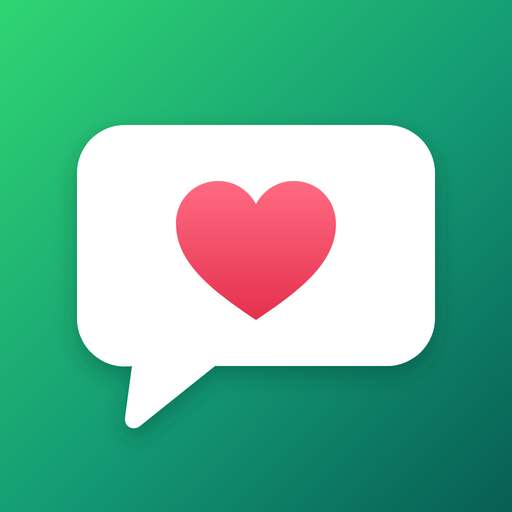
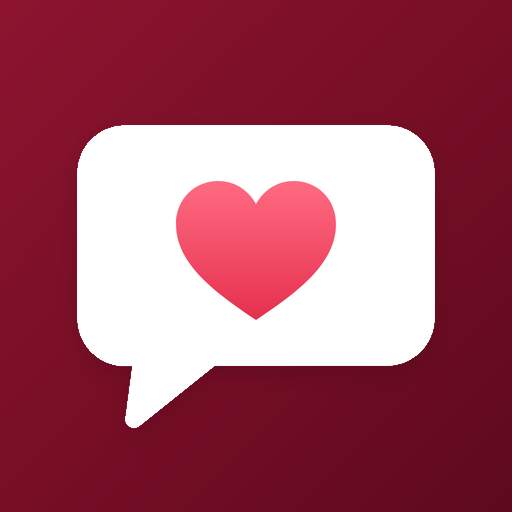
Aktualisierung der Web-App

diff --git a/css/app.css b/css/app.css
@@ -220,6 +220,17 @@ a { color: var(--link); }
 .result .rh b i { width: 8px; height: 8px; border-radius: 50%; display: inline-block; }
 .result .rt { font-size: 15px; line-height: 1.35; display: -webkit-box; -webkit-line-clamp: 3; -webkit-box-orient: vertical; overflow: hidden; white-space: pre-wrap; }
 .result mark { background: var(--mark); color: inherit; border-radius: 3px; padding: 0 1px; }
+/* Suche als Kacheln */
+.sgrid { display: grid; grid-template-columns: repeat(auto-fill, minmax(104px, 1fr)); gap: 2px; padding: 0 2px 16px; }
+.sgrid .tile { aspect-ratio: 1; position: relative; overflow: hidden; background: var(--bg-3); text-align: left; min-width: 0; }
+.sgrid .tile img { width: 100%; height: 100%; object-fit: cover; display: block; }
+.sgrid .tile .vb { position: absolute; right: 5px; bottom: 5px; color: #fff; width: 18px; height: 18px; filter: drop-shadow(0 1px 2px rgba(0,0,0,.6)); }
+.sgrid .tile.txt { padding: 8px 8px 20px; font-size: 11.5px; line-height: 1.3; color: var(--text); border-left: 3px solid var(--text-3); }
+.sgrid .tile.txt.s0 { border-left-color: var(--her); } .sgrid .tile.txt.s1 { border-left-color: var(--him); }
+.sgrid .tile.txt .tt { display: -webkit-box; -webkit-line-clamp: 6; -webkit-box-orient: vertical; overflow: hidden; word-break: break-word; }
+.sgrid .tile .td { position: absolute; left: 6px; bottom: 4px; font-size: 10px; color: var(--text-3); }
+.sgrid .tile.img .td { color: #fff; text-shadow: 0 1px 2px rgba(0,0,0,.7); }
+.sgrid .tile.ico { display: grid; place-items: center; font-size: 30px; }
 .result-count { padding: 8px 16px; font-size: 13px; color: var(--text-3); display: flex; justify-content: space-between; align-items: center; }
 .result-count button { color: var(--accent); font-size: 13px; }
 .year-hist { display: flex; align-items: flex-end; gap: 2px; height: 46px; padding: 0 16px; margin-top: 4px; }
@@ -344,11 +355,11 @@ a { color: var(--link); }
 .toast.show { opacity: 1; transform: translate(-50%, 0); }
 
 /* ---------- Start / Import / Sperre ---------- */
-.gate { position: fixed; inset: 0; z-index: 80; background: linear-gradient(160deg, #075e54 0%, #128c7e 55%, #25d366 130%); color: #fff; display: flex; flex-direction: column; align-items: center; justify-content: center; padding: calc(var(--safe-top) + 24px) 28px calc(var(--safe-bottom) + 24px); text-align: center; overflow-y: auto; }
+.gate { position: fixed; inset: 0; z-index: 80; background: linear-gradient(160deg, #5e0a1d 0%, #8c142f 55%, #b5294f 130%); color: #fff; display: flex; flex-direction: column; align-items: center; justify-content: center; padding: calc(var(--safe-top) + 24px) 28px calc(var(--safe-bottom) + 24px); text-align: center; overflow-y: auto; }
 .gate .logo { width: 96px; height: 96px; border-radius: 22px; box-shadow: 0 10px 30px rgba(0, 0, 0, 0.25); margin-bottom: 18px; }
 .gate h1 { margin: 0 0 8px; font-size: 28px; }
 .gate p { margin: 0 0 18px; opacity: .92; line-height: 1.45; max-width: 360px; }
-.gate .btn { background: #fff; color: #075e54; padding: 13px 22px; border-radius: 14px; font-size: 16px; }
+.gate .btn { background: #fff; color: #5e0a1d; padding: 13px 22px; border-radius: 14px; font-size: 16px; }
 .gate .btn.sec { background: rgba(255, 255, 255, 0.18); color: #fff; }
 .gate input[type="password"], .gate input[type="text"] { width: 100%; max-width: 320px; height: 48px; border-radius: 12px; border: 0; padding: 0 14px; font-size: 18px; text-align: center; margin-bottom: 12px; background: rgba(255, 255, 255, 0.95); color: #111; }
 .gate .hint { font-size: 14px; opacity: .85; margin-bottom: 14px; }
@@ -367,7 +378,7 @@ a { color: var(--link); }
 .keypad button.txt { background: none; font-size: 16px; }
 
 /* ---------- Intro ---------- */
-.intro { position: fixed; inset: 0; z-index: 70; color: #fff; background: radial-gradient(120% 90% at 50% 0%, #1a8f7a 0%, #075e54 45%, #052e2b 100%); display: flex; flex-direction: column; overflow: hidden; }
+.intro { position: fixed; inset: 0; z-index: 70; color: #fff; background: radial-gradient(120% 90% at 50% 0%, #a3203f 0%, #6e0f25 45%, #2a0410 100%); display: flex; flex-direction: column; overflow: hidden; }
 .intro .hearts { position: absolute; inset: 0; pointer-events: none; overflow: hidden; }
 .intro .hearts span { position: absolute; bottom: -40px; font-size: 20px; opacity: 0; animation: rise linear infinite; }
 @keyframes rise { 0% { transform: translateY(0) rotate(0); opacity: 0; } 10% { opacity: .7; } 100% { transform: translateY(-110vh) rotate(25deg); opacity: 0; } }
@@ -383,7 +394,7 @@ a { color: var(--link); }
 .intro .ded { max-width: 520px; font-size: 18px; line-height: 1.55; text-align: left; white-space: pre-wrap; max-height: 62vh; overflow-y: auto; -webkit-overflow-scrolling: touch; }
 .intro .sig { margin-top: 14px; font-style: italic; font-size: 19px; align-self: flex-end; max-width: 520px; width: 100%; text-align: right; }
 .intro .next { position: absolute; left: 0; right: 0; bottom: calc(var(--safe-bottom) + 24px); display: flex; justify-content: center; gap: 10px; z-index: 2; }
-.intro .next .btn { background: #fff; color: #075e54; padding: 13px 22px; border-radius: 26px; }
+.intro .next .btn { background: #fff; color: #6e0f25; padding: 13px 22px; border-radius: 26px; }
 .intro .next .btn.sec { background: rgba(255, 255, 255, 0.15); color: #fff; }
 .intro .dots { position: absolute; top: calc(var(--safe-top) + 14px); left: 0; right: 0; display: flex; justify-content: center; gap: 6px; z-index: 2; }
 .intro .dots i { width: 22px; height: 3px; border-radius: 2px; background: rgba(255, 255, 255, 0.3); }

diff --git a/js/media.js b/js/media.js
@@ -49,6 +49,43 @@
       const mid = m[UC.data.MI];
       return mid >= 0 ? UC.data.media[mid] : null;
     },
+    // Einzelne Datei (Foto, Video, Sprachnachricht …) als File für „Sichern/Teilen“
+    async fileFor(i) {
+      const D = UC.data, m = D.M[i], info = this.info(i);
+      if (!info || !info.f) return null;
+      let blob = null;
+      try {
+        if (this.mode === "bundle") blob = await (await fetch("data/" + info.f)).blob();
+        else blob = await UC.idb.get("files", info.f);
+      } catch (e) { blob = null; }
+      if (!blob) return null;
+      const ext = (info.f.split(".").pop() || "bin").toLowerCase();
+      const TYPES = { jpg: "image/jpeg", jpeg: "image/jpeg", png: "image/png", webp: "image/webp", gif: "image/gif",
+        mp4: "video/mp4", mov: "video/quicktime", m4a: "audio/mp4", mp3: "audio/mpeg", opus: "audio/ogg", pdf: "application/pdf" };
+      const d = UC.D(m[D.T]), z = (n) => String(n).padStart(2, "0");
+      const name = "Unser Chat " + d.getUTCFullYear() + "-" + z(d.getUTCMonth() + 1) + "-" + z(d.getUTCDate()) + " " +
+        z(d.getUTCHours()) + "." + z(d.getUTCMinutes()) + "." + ext;
+      return new File([blob], name, { type: blob.type || TYPES[ext] || "application/octet-stream" });
+    },
+    // Teilen-Menü von iOS öffnen („Bild sichern“, „In Dateien sichern“, AirDrop …); file vorher laden,
+    // damit der Aufruf direkt im Antippen passiert (sonst lehnt iOS ab)
+    shareFile(file) {
+      if (!file) { UC.toast("Diese Datei ist nicht in der Chat-Datei enthalten."); return; }
+      if (navigator.canShare && navigator.canShare({ files: [file] })) {
+        navigator.share({ files: [file] }).catch((e) => {
+          if (e && e.name === "NotAllowedError") UC.toast("Bitte noch einmal tippen");
+        });
+        return;
+      }
+      const u = URL.createObjectURL(file);
+      const a = el("a", { href: u, download: file.name });
+      document.body.appendChild(a); a.click(); a.remove();
+      setTimeout(() => URL.revokeObjectURL(u), 60000);
+    },
+    canSave(i) {
+      const m = UC.data.M[i], info = this.info(i);
+      return !!(info && info.f) && [1, 2, 3, 4, 5, 6].indexOf(m[UC.data.K]) >= 0;
+    },
     // Liste aller Fotos/Videos (für Galerie und Wischen im Betrachter)
     visualList() {
       if (this._vis) return this._vis;
@@ -179,11 +216,13 @@
     const title = el("div", { class: "grow" });
     const cap = el("div", { class: "cap" });
     const closeBtn = el("button", { class: "icon-btn", "aria-label": "Schließen" }, icon("i-close"));
+    const shareBtn = el("button", { class: "icon-btn", "aria-label": "Sichern oder teilen" }, icon("i-share"));
+    let curFile = null;
     const prev = el("button", { class: "icon-btn", "aria-label": "Vorheriges" }, icon("i-left"));
     const next = el("button", { class: "icon-btn", "aria-label": "Nächstes" }, icon("i-right"));
     const toChat = el("button", { class: "btn", text: "Im Chat zeigen" });
     const v = el("div", { class: "viewer" },
-      el("div", { class: "vt" }, closeBtn, title),
+      el("div", { class: "vt" }, closeBtn, title, shareBtn),
       stage, cap,
       el("div", { class: "vb" }, prev, toChat, next));
     document.getElementById("overlays").appendChild(v);
@@ -195,6 +234,10 @@
       const info = media.info(i) || {};
       title.replaceChildren(el("b", { text: D.name(m[D.S]) }), el("small", { text: UC.fmtDate(m[D.T]) + ", " + UC.fmtTime(m[D.T]) }));
       cap.textContent = m[D.X] || "";
+      curFile = null;
+      shareBtn.style.visibility = info.f ? "visible" : "hidden";
+      const fi = i;
+      media.fileFor(fi).then((f) => { if (fi === i) curFile = f; });
       scale = 1; tx = 0; ty = 0;
       stage.replaceChildren();
       if ((m[D.K] === 2 || m[D.K] === 5) && info.f) {
@@ -230,6 +273,10 @@
     function onKey(e) { if (e.key === "Escape") close(); if (e.key === "ArrowLeft") go(-1); if (e.key === "ArrowRight") go(1); }
     document.addEventListener("keydown", onKey);
     closeBtn.onclick = close;
+    shareBtn.onclick = () => {
+      if (curFile) media.shareFile(curFile);
+      else media.fileFor(i).then((f) => { curFile = f; media.shareFile(f); });
+    };
     prev.onclick = () => go(-1);
     next.onclick = () => go(1);
     toChat.onclick = () => { close(); UC.app.openInChat(i, { flash: true }); };

diff --git a/js/search.js b/js/search.js
@@ -4,6 +4,7 @@
   const { el, icon } = UC;
   let D, input, clearBtn, filters, out;
   let state = { sender: -1, type: "all", year: 0, newest: true };
+  let view = "list";  // "list" oder "grid" (Kacheln) – wird gemerkt
   let results = [], shown = 0, re = null, seq = 0;
   const TYPES = [
     ["all", "Alles"], ["text", "Text"], ["foto", "Fotos"], ["audio", "Sprachnachrichten"], ["video", "Videos"],
@@ -32,6 +33,12 @@
       mk(D.name(1), state.sender === 1, () => { state.sender = 1; renderFilters(); run(); }),
       mk("Art: " + TYPES.find((t) => t[0] === state.type)[1] + " ▾", state.type !== "all", pickType),
       mk(state.newest ? "Neueste zuerst ↓" : "Älteste zuerst ↑", false, () => { state.newest = !state.newest; renderFilters(); show(true); }),
+      mk(view === "grid" ? "▦ Kacheln" : "☰ Liste", false, () => {
+        view = view === "grid" ? "list" : "grid";
+        UC.prefs.set("searchView", view);
+        renderFilters();
+        if (results.length) show(true);
+      }),
     );
   }
   function pickType() {
@@ -69,6 +76,32 @@
     return b;
   }
 
+  function tileItem(i) {
+    const m = D.M[i], k = m[D.K], s = m[D.S];
+    const info = UC.media.info(i);
+    const when = el("span", { class: "td", text: UC.fmtDate(m[D.T], "short") });
+    let b;
+    if ((k === 1 || k === 2 || k === 4 || k === 5) && info && (info.th || info.f)) {
+      b = el("button", { class: "tile img", "aria-label": (D.KIND_LABEL[k] || "Bild") + " vom " + UC.fmtDate(m[D.T], "short") });
+      const img = el("img", { alt: "", decoding: "async" });
+      UC.media.lazy(img, info.th || info.f, out);
+      b.appendChild(img);
+      if (k === 2 || k === 5) b.appendChild(icon("i-play", "vb"));
+      b.appendChild(when);
+      b.onclick = () => (k === 4 ? UC.app.openInChat(i, { flash: true }) : UC.media.view(i));
+    } else if (k !== 0 && k !== 11 && !m[D.X]) {
+      b = el("button", { class: "tile ico", "aria-label": (D.KIND_LABEL[k] || "Nachricht") + " vom " + UC.fmtDate(m[D.T], "short") },
+        el("span", { text: D.KIND_ICON[k] || "💬" }), when);
+      b.onclick = () => UC.app.openInChat(i, { flash: true, hl: re });
+    } else {
+      let txt = m[D.X] || "";
+      if (k !== 0 && k !== 11) txt = (D.KIND_ICON[k] || "") + " " + txt;
+      b = el("button", { class: "tile txt s" + s }, el("div", { class: "tt", html: snippet(txt) }), when);
+      b.onclick = () => UC.app.openInChat(i, { flash: true, hl: re });
+    }
+    return b;
+  }
+
   function histogram(all) {
     const counts = new Map();
     for (const i of all) { const y = UC.D(D.M[i][D.T]).getUTCFullYear(); counts.set(y, (counts.get(y) || 0) + 1); }
@@ -99,13 +132,14 @@
       el("span", { text: UC.plural(list.length, "Treffer", "Treffer") + (state.year ? " in " + state.year : "") }),
       state.year ? el("button", { text: "Alle Jahre", onclick: () => { state.year = 0; show(true); } }) : null);
     out.append(histogram(results), head);
-    const box = el("div");
+    const grid = view === "grid";
+    const box = el("div", { class: grid ? "sgrid" : "" });
     out.appendChild(box);
     shown = 0;
     const more = () => {
       const f = document.createDocumentFragment();
-      const end = Math.min(list.length, shown + 60);
-      for (; shown < end; shown++) f.appendChild(resultItem(list[shown]));
+      const end = Math.min(list.length, shown + (grid ? 150 : 60));
+      for (; shown < end; shown++) f.appendChild(grid ? tileItem(list[shown]) : resultItem(list[shown]));
       box.appendChild(f);
     };
     more();
@@ -180,6 +214,7 @@
     clearBtn = UC.$("#q-clear");
     filters = UC.$("#search-filters");
     out = UC.$("#search-results");
+    view = UC.prefs.get("searchView", "list") === "grid" ? "grid" : "list";
     renderFilters();
     emptyState();
     const deb = UC.debounce(run, 220);

diff --git a/js/chat.js b/js/chat.js
@@ -501,13 +501,20 @@
     const fav = el("button", { class: "opt", text: D.isFav(i) ? "💔  Aus Favoriten entfernen" : "❤  Als Favorit merken" });
     const cp = el("button", { class: "opt", text: "📋  Text kopieren" });
     const day = el("button", { class: "opt", text: "📅  Diesen Tag im Kalender" });
-    body.append(info, fav, m[D.X] ? cp : null, day);
+    const save = UC.media.canSave(i) ? el("button", { class: "opt", text: "📤  Sichern oder teilen" }) : null;
+    let file = null;
+    if (save) UC.media.fileFor(i).then((f) => { file = f; });  // vorab laden (iOS will das Teilen direkt beim Tippen)
+    body.append(...[info, fav, m[D.X] ? cp : null, save, day].filter(Boolean));  // append(null) würde „null“ anzeigen
     const bub = inner.querySelector('[data-i="' + i + '"]');
     if (bub) bub.classList.add("picked");
     const s = UC.sheet({ title: "Nachricht", body, onClose: () => { if (bub) bub.classList.remove("picked"); } });
     fav.onclick = () => { toggleFav(i); s.close(); };
     cp.onclick = () => { copyText(m[D.X] || ""); UC.toast("Kopiert"); s.close(); };
     day.onclick = () => { s.close(); UC.app.showDay(Math.floor(m[D.T] / 86400)); };
+    if (save) save.onclick = () => {
+      if (file) { UC.media.shareFile(file); s.close(); }
+      else UC.media.fileFor(i).then((f) => { UC.media.shareFile(f); s.close(); });
+    };
   }
 
   function init() {

diff --git a/index.html b/index.html
@@ -104,6 +104,7 @@
   <symbol id="i-more" viewBox="0 0 24 24"><circle cx="5.5" cy="12" r="1.8" fill="currentColor"/><circle cx="12" cy="12" r="1.8" fill="currentColor"/><circle cx="18.5" cy="12" r="1.8" fill="currentColor"/></symbol>
   <symbol id="i-down" viewBox="0 0 24 24"><path d="M6 9l6 6 6-6" fill="none" stroke="currentColor" stroke-width="2" stroke-linecap="round" stroke-linejoin="round"/></symbol>
   <symbol id="i-up" viewBox="0 0 24 24"><path d="M6 15l6-6 6 6" fill="none" stroke="currentColor" stroke-width="2" stroke-linecap="round" stroke-linejoin="round"/></symbol>
+  <symbol id="i-share" viewBox="0 0 24 24"><path d="M12 3v12M7.5 7.5 12 3l4.5 4.5M5 11v8.5A1.5 1.5 0 0 0 6.5 21h11a1.5 1.5 0 0 0 1.5-1.5V11" fill="none" stroke="currentColor" stroke-width="2" stroke-linecap="round" stroke-linejoin="round"/></symbol>
   <symbol id="i-close" viewBox="0 0 24 24"><path d="M6 6l12 12M18 6 6 18" stroke="currentColor" stroke-width="2" stroke-linecap="round"/></symbol>
   <symbol id="i-play" viewBox="0 0 24 24"><path d="M8 5.5v13l11-6.5z" fill="currentColor"/></symbol>
   <symbol id="i-pause" viewBox="0 0 24 24"><rect x="6.5" y="5" width="4" height="14" rx="1" fill="currentColor"/><rect x="13.5" y="5" width="4" height="14" rx="1" fill="currentColor"/></symbol>

diff --git a/sw.js b/sw.js
@@ -1,6 +1,6 @@
 /* Unser Chat – Service Worker: macht die App-Hülle offline verfügbar.
    Die Chat-Daten liegen NICHT hier, sondern verschlüsselt importiert in IndexedDB. */
-const VERSION = "unserchat-20261022-193824";
+const VERSION = "unserchat-20261105-175438";
 const FILES = [
   "./", "index.html", "manifest.webmanifest", "css/app.css",
   "js/util.js", "js/store.js", "js/paket.js", "js/data.js", "js/media.js", "js/chat.js", "js/search.js",
